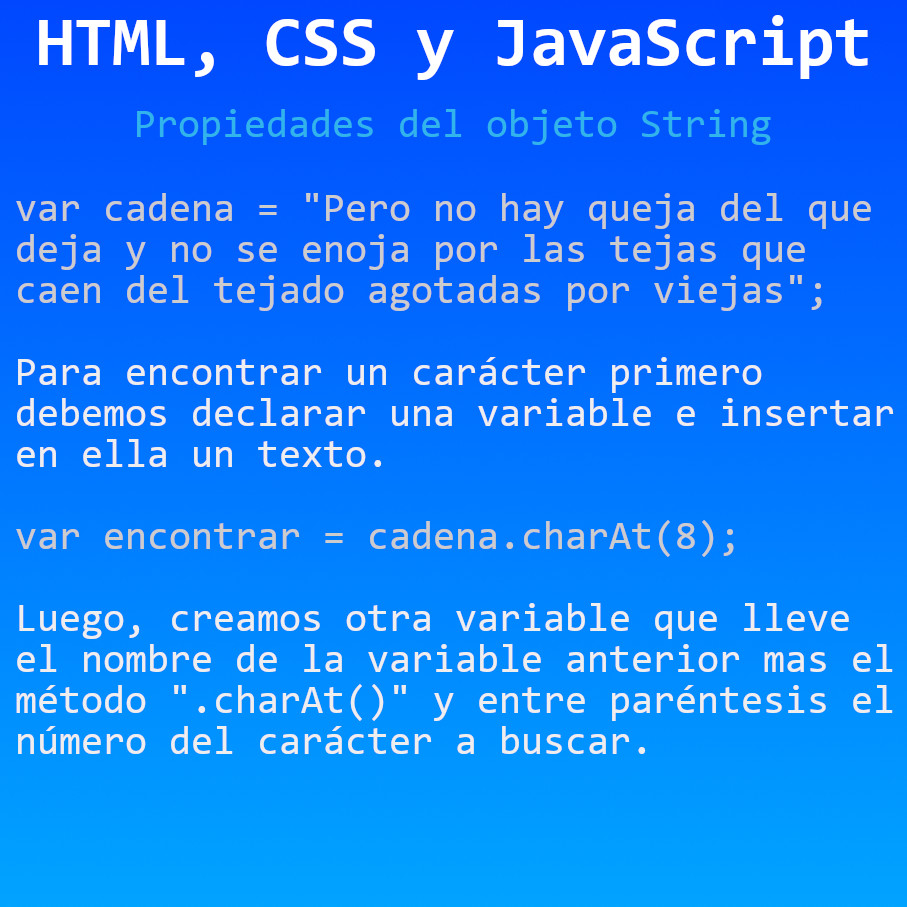
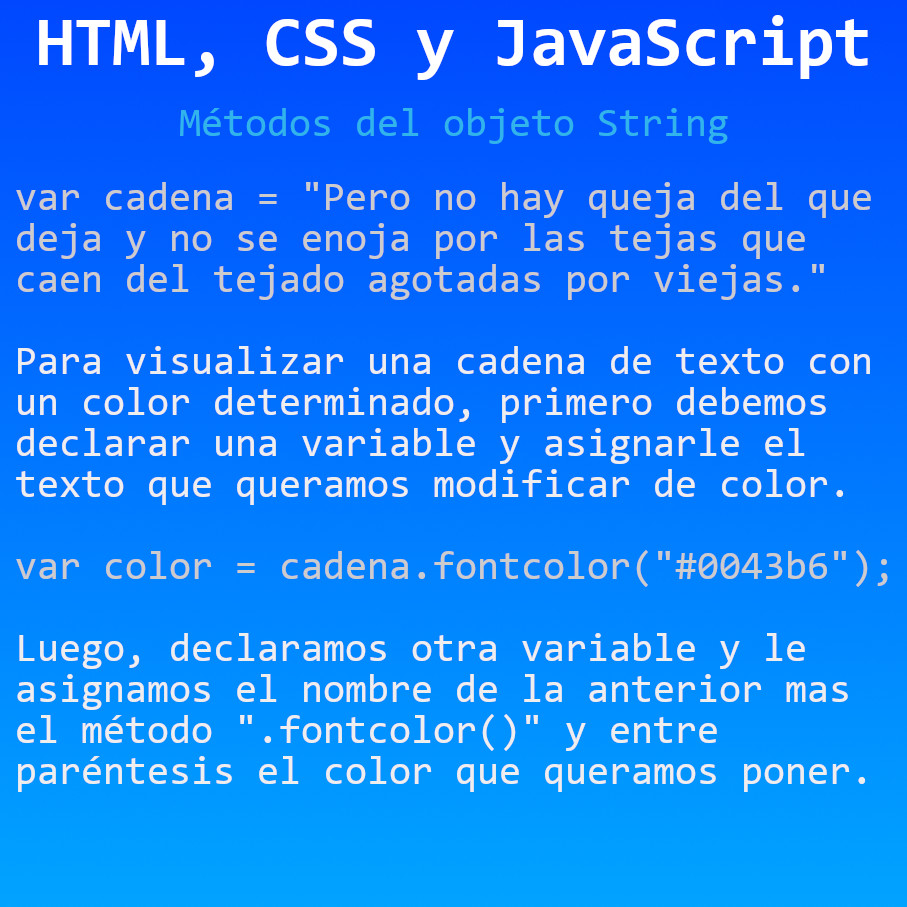
Métodos del objeto String
Métodos del objeto String en JavaScript

diff --git a/HTML, CSS y JavaScript/Métodos del objeto String/js/funciones.js b/HTML, CSS y JavaScript/Métodos del objeto String/js/funciones.js
@@ -91,3 +91,10 @@ var encontrar = cadena.charAt(8);
 document.write("Carácter en la posición 8: "+encontrar);
 // SALTO DE LÍNEA
 document.write("<hr>");
+// ASIGNAR COLOR
+// declarar variable
+var color = cadena.fontcolor("#0043b6");
+// MOSTRAR EN PANTALLA
+document.write(color);
+// SALTO DE LÍNEA
+document.write("<hr>");
